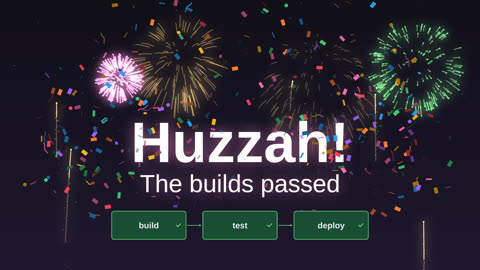
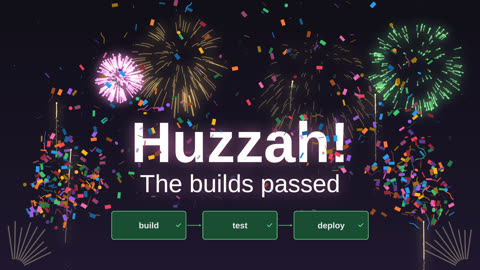
Celebrations last until their last particles are gone
The fireworks and confetti entries read their style and burst times
before the declaration and last until the last burst's stars or pieces
have gone (show 6.9 s, single 4 s, finale 6.6 s; cannons 6.55 s, burst
5.2 s, rain 6 s), so a default placement no longer hides them with
sparks or paper still in the air. Their descriptions say to place them
with /After /hold to keep the message up afterwards.

Huzzah fires its second cannon volley on the finale's fourth burst and
runs 12 s, so the paper has landed and the last second is a hold.
360 frames render in 6.6 s on 10 threads.

Claude-Session: https://claude.ai/code/session_016y8NtS54T7kWRpmosiW6yL

Changed region(s): [[0.75, 0.5037, 1.0, 0.9778], [0.0, 0.4741, 0.25, 0.9778]]

diff --git a/skills/psanim/references/catalog.md b/skills/psanim/references/catalog.md
@@ -6,9 +6,9 @@ Ready-made elements, each a movie of its own. Place one as a component (see comp
 
 ## `/confetti`: Confetti
 
-Confetti that tumbles, sways and flutters down around a message, which arrives with the first blast and pulses on every one. Styles: cannons from both corners (6.5 s), one burst from behind the message (5 s), a steady rain (6 s). /Seed on the instance changes the pieces.
+Confetti that tumbles, sways and flutters down around a message, which arrives with the first blast and pulses on every one. Styles: cannons from both corners, one burst from behind the message, a steady rain. It lasts until the last pieces are gone (6.55 s for the cannons); place it with /After /hold to keep the message up after that. /Seed on the instance changes the pieces.
 
-1280x720, 6.5 s. `/x /confetti component`, then `/x << /Box [..] >> place`.
+1280x720, 6.55 s. `/x /confetti component`, then `/x << /Box [..] >> place`.
 
 | Param | Default | Meaning |
 |---|---|---|
@@ -22,9 +22,9 @@ Confetti that tumbles, sways and flutters down around a message, which arrives w
 
 ## `/fireworks`: Fireworks
 
-Shells rise on trails and burst into glowing stars that fall and fade behind a message, which arrives with the first burst and pulses on every one. Styles: a show (6 s), a single shell for a small success (3.5 s), a finale (6.5 s). /Seed on the instance changes the shells.
+Shells rise on trails and burst into glowing stars that fall and fade behind a message, which arrives with the first burst and pulses on every one. Styles: a show, a single shell for a small success, a finale. It lasts until the last stars are gone (6.9 s for the show); place it with /After /hold to keep the message up after that. /Seed on the instance changes the shells.
 
-1280x720, 6 s. `/x /fireworks component`, then `/x << /Box [..] >> place`.
+1280x720, 6.9 s. `/x /fireworks component`, then `/x << /Box [..] >> place`.
 
 | Param | Default | Meaning |
 |---|---|---|

diff --git a/docs/gallery.md b/docs/gallery.md
@@ -29,4 +29,4 @@ reproducible from the sources).
 | ![How psanim works](img/gallery/how-it-works.jpg) | [How psanim works](../gallery/how-it-works/how-it-works.ps) | An animated architecture explainer of psanim itself: a movie is one PostScript program, a frame is a function of its time, time scopes re-base the clock, frames render in any order on every core, and the stack from program to video. | 69.5 s, 1280x720, pure | `psanim render gallery/how-it-works/how-it-works.ps -o how-it-works.mp4` |
 
 Each piece's directory has a README describing its techniques.
-| ![Huzzah](img/gallery/huzzah.jpg) | [Huzzah](../gallery/huzzah/huzzah.ps) | A release pipeline turns green stage by stage, and each pass gets a bigger celebration: a single shell, a burst of confetti, then a fireworks finale with confetti cannons fired on its bursts. | 11 s, 1280x720, pure | `psanim render gallery/huzzah/huzzah.ps -o huzzah.mp4` |
+| ![Huzzah](img/gallery/huzzah.jpg) | [Huzzah](../gallery/huzzah/huzzah.ps) | A release pipeline turns green stage by stage, and each pass gets a bigger celebration: a single shell, a burst of confetti, then a fireworks finale with confetti cannons fired on its bursts. | 12 s, 1280x720, pure | `psanim render gallery/huzzah/huzzah.ps -o huzzah.mp4` |

diff --git a/gallery/huzzah/README.md b/gallery/huzzah/README.md
@@ -1,6 +1,6 @@
 # Huzzah
 
-An 11 second celebration card (1280x720, 30 fps). A release pipeline turns
+A 12 second celebration card (1280x720, 30 fps). A release pipeline turns
 green one stage at a time, and each pass gets a bigger celebration. When
 the build passes, one small shell goes up. When the tests pass, confetti
 bursts out from behind them. When the deploy passes, the pipeline moves
